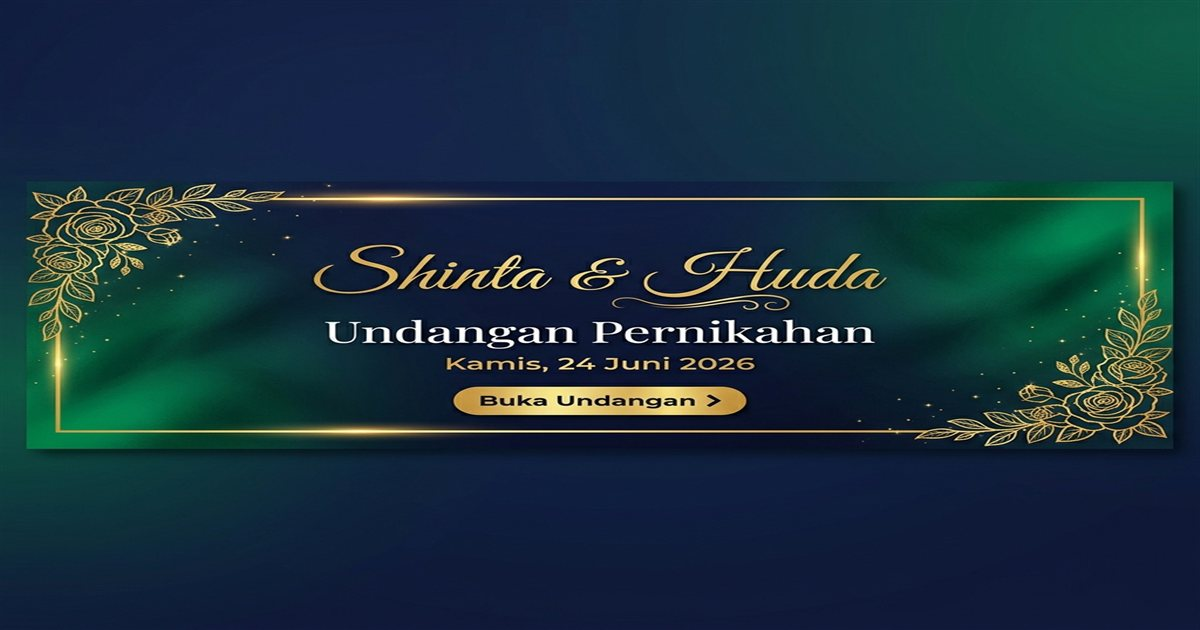
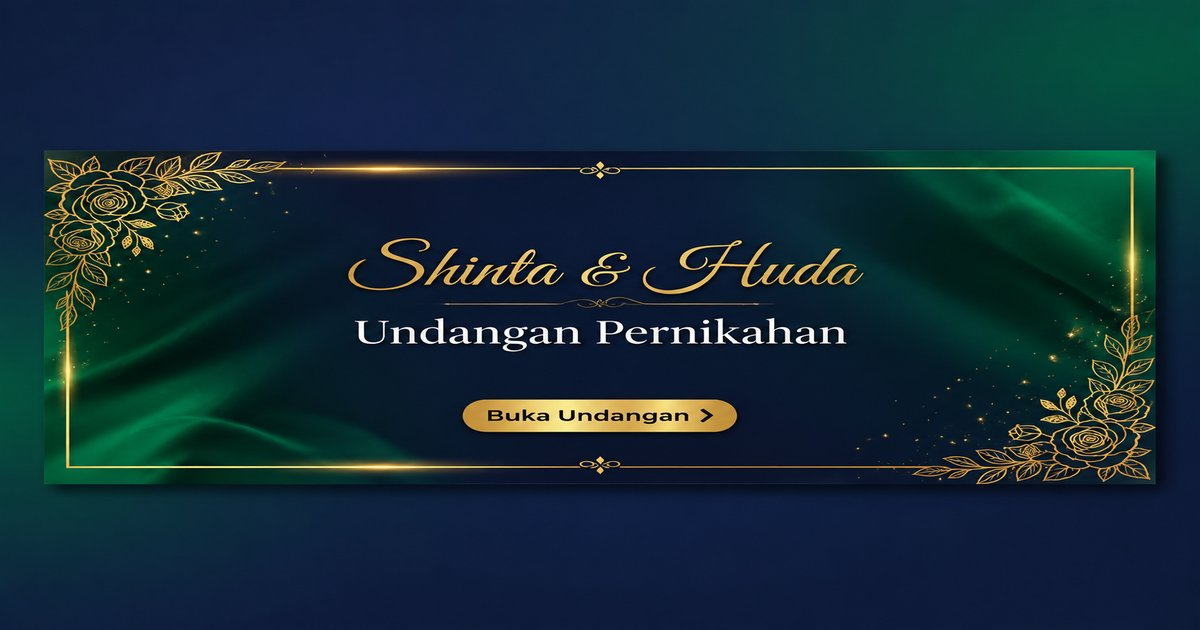
Add files via upload

Changed region(s): [[0.0, 0.2111, 0.9867, 0.7841], [0.2158, 0.5429, 0.2775, 0.6032]]

diff --git a/index.html b/index.html
@@ -14,13 +14,13 @@
   <meta property="og:title" content="Undangan Pernikahan Shinta &amp; Huda — Rabu, 24 Juni 2026" />
   <meta property="og:description"
     content="Kami mengundang kehadiran Anda dalam pernikahan Shinta &amp; Huda, Rabu 24 Juni 2026 di Kp. Tanjung, Desa Selaawi, Kab. Garut, Jawa Barat." />
-  <meta property="og:image" content="https://weddingg-invination-huda-shinta.vercel.app/og-preview.png?v=5" />
+  <meta property="og:image" content="https://weddingg-invination-huda-shinta.vercel.app/og-preview.jpg?v=6" />
   <meta property="og:image:width" content="1200" />
   <meta property="og:image:height" content="630" />
-  <meta property="og:image:type" content="image/png" />
+  <meta property="og:image:type" content="image/jpeg" />
   <meta property="og:image:alt" content="Undangan Pernikahan Shinta &amp; Huda — Rabu, 24 Juni 2026" />
   <meta property="og:image:secure_url"
-    content="https://weddingg-invination-huda-shinta.vercel.app/og-preview.png?v=5" />
+    content="https://weddingg-invination-huda-shinta.vercel.app/og-preview.jpg?v=6" />
   <meta property="og:locale" content="id_ID" />
   <meta property="og:site_name" content="Undangan Digital Shinta &amp; Huda" />
 
@@ -29,11 +29,11 @@
   <meta name="twitter:title" content="Undangan Pernikahan Shinta &amp; Huda — Rabu, 24 Juni 2026" />
   <meta name="twitter:description"
     content="Kami mengundang kehadiran Anda dalam pernikahan Shinta &amp; Huda, Rabu 24 Juni 2026 di Desa Selaawi, Kab. Garut, Jawa Barat." />
-  <meta name="twitter:image" content="https://weddingg-invination-huda-shinta.vercel.app/og-preview.png?v=5" />
+  <meta name="twitter:image" content="https://weddingg-invination-huda-shinta.vercel.app/og-preview.jpg?v=6" />
   <meta name="twitter:image:alt" content="Undangan Pernikahan Shinta &amp; Huda — Rabu, 24 Juni 2026" />
   <!-- ===== FAVICON ===== -->
-  <link rel="icon" href="https://weddingg-invination-huda-shinta.vercel.app/og-preview.png?v=5" type="image/png" />
-  <link rel="apple-touch-icon" href="https://weddingg-invination-huda-shinta.vercel.app/og-preview.png" />
+  <link rel="icon" href="https://weddingg-invination-huda-shinta.vercel.app/og-preview.jpg?v=6" type="image/jpeg" />
+  <link rel="apple-touch-icon" href="https://weddingg-invination-huda-shinta.vercel.app/og-preview.jpg?v=6" />
 
   <link rel="preconnect" href="https://fonts.googleapis.com" />
   <link rel="preconnect" href="https://fonts.gstatic.com" crossorigin />
@@ -3686,7 +3686,7 @@ Terima kasih & semoga menjadi keluarga sakinah mawaddah warahmah`;
     function shareViaWhatsApp() {
       if (!generatedLink) return;
 
-      const message = `Assalamu'alaikum Wr. Wb.\n\nDengan segala kerendahan hati dan rasa syukur atas karunia Allah SWT yang senantiasa mencurahkan tetes kelembutan kasih sayang Nya.\n\nTanpa mengurangi rasa hormat, perkenankan kami mengundang Bapak/Ibu/Saudara/i ${generatedGuestName} untuk menghadiri acara pernikahan kami:\n\nShinta & Huda \n \n\nBerikut link undangan kami, untuk info lengkap dari acara bisa kunjungi :\n${generatedLink}\n\nMerupakan suatu kehormatan dan kebahagiaan bagi kami apabila Bapak/Ibu/Saudara/i berkenan hadir. \n\nTerima kasih atas perhatiannya.\nWassalamualaikum Wr. Wb.`;
+      const message = `Assalamu'alaikum Wr. Wb.\n\nDengan segala kerendahan hati dan rasa syukur atas karunia Allah SWT yang senantiasa mencurahkan tetes kelembutan kasih sayang Nya.\n\nTanpa mengurangi rasa hormat, perkenankan kami mengundang Bapak/Ibu/Saudara/i ${generatedGuestName} untuk menghadiri acara pernikahan kami:\n\nShinta & Huda\n\nBerikut link undangan kami, untuk info lengkap dari acara bisa kunjungi :\n${generatedLink}\n\nMerupakan suatu kehormatan dan kebahagiaan bagi kami apabila Bapak/Ibu/Saudara/i berkenan hadir. \n\nTerima kasih atas perhatiannya.\nWassalamualaikum Wr. Wb.`;
 
       const waUrl = `https://wa.me/?text=${encodeURIComponent(message)}`;
       window.open(waUrl, '_blank');
